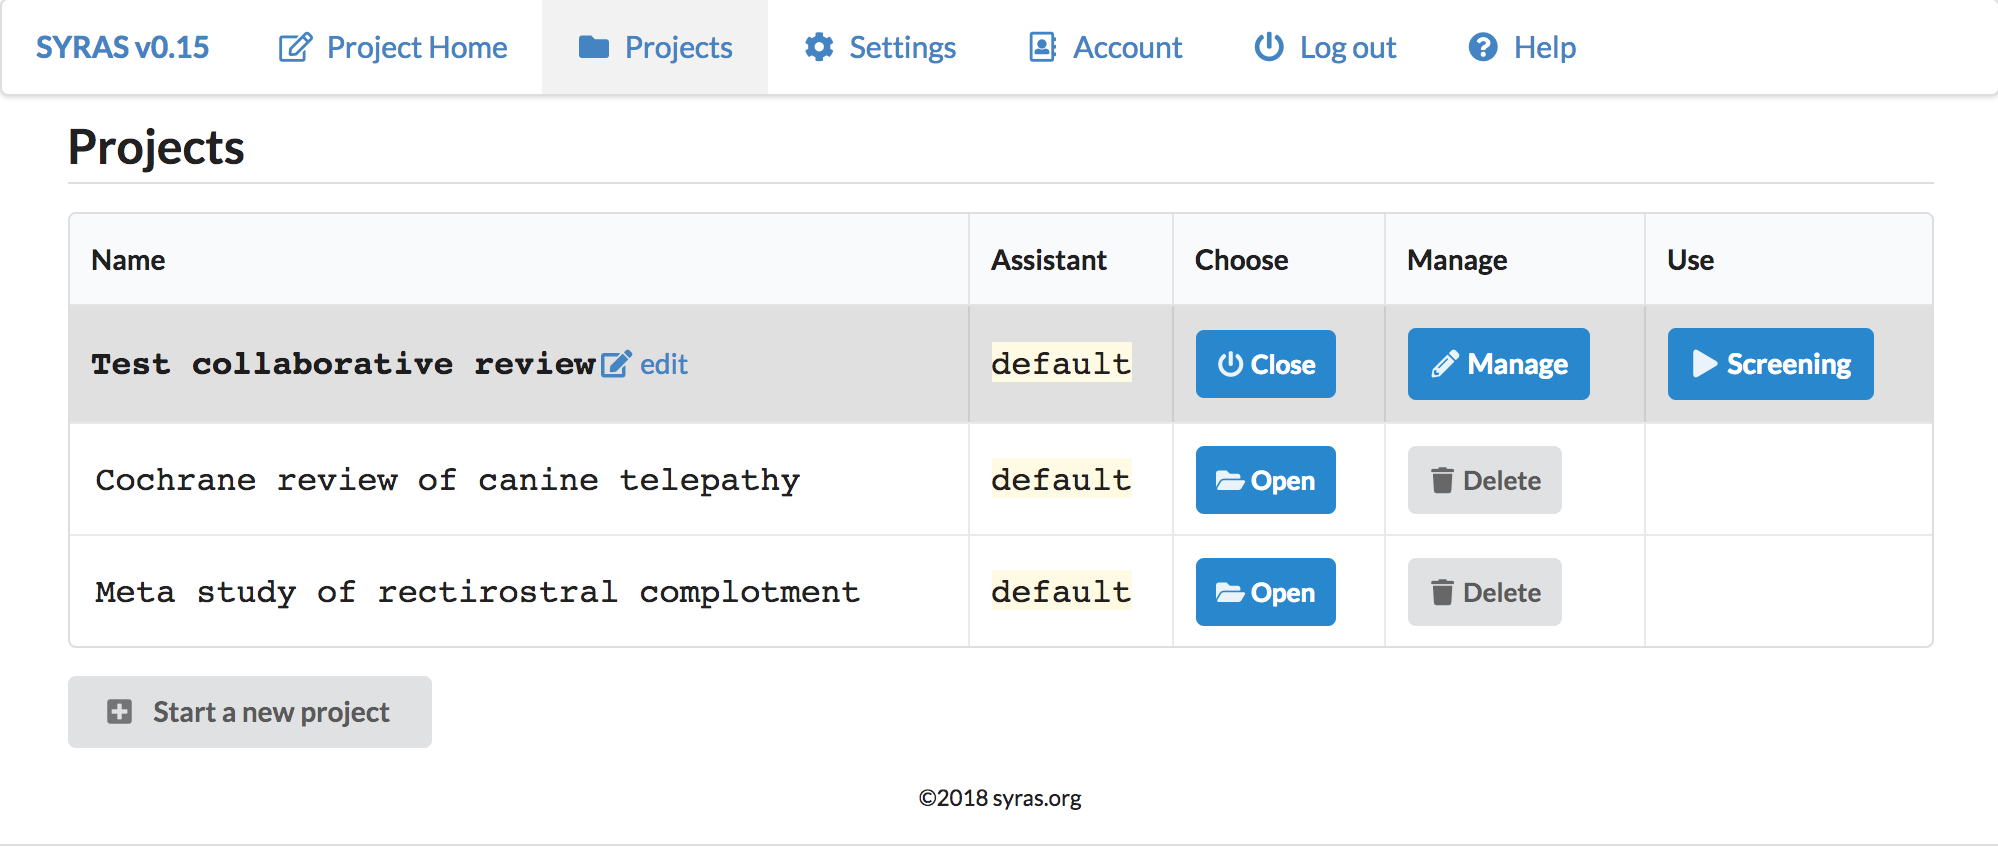
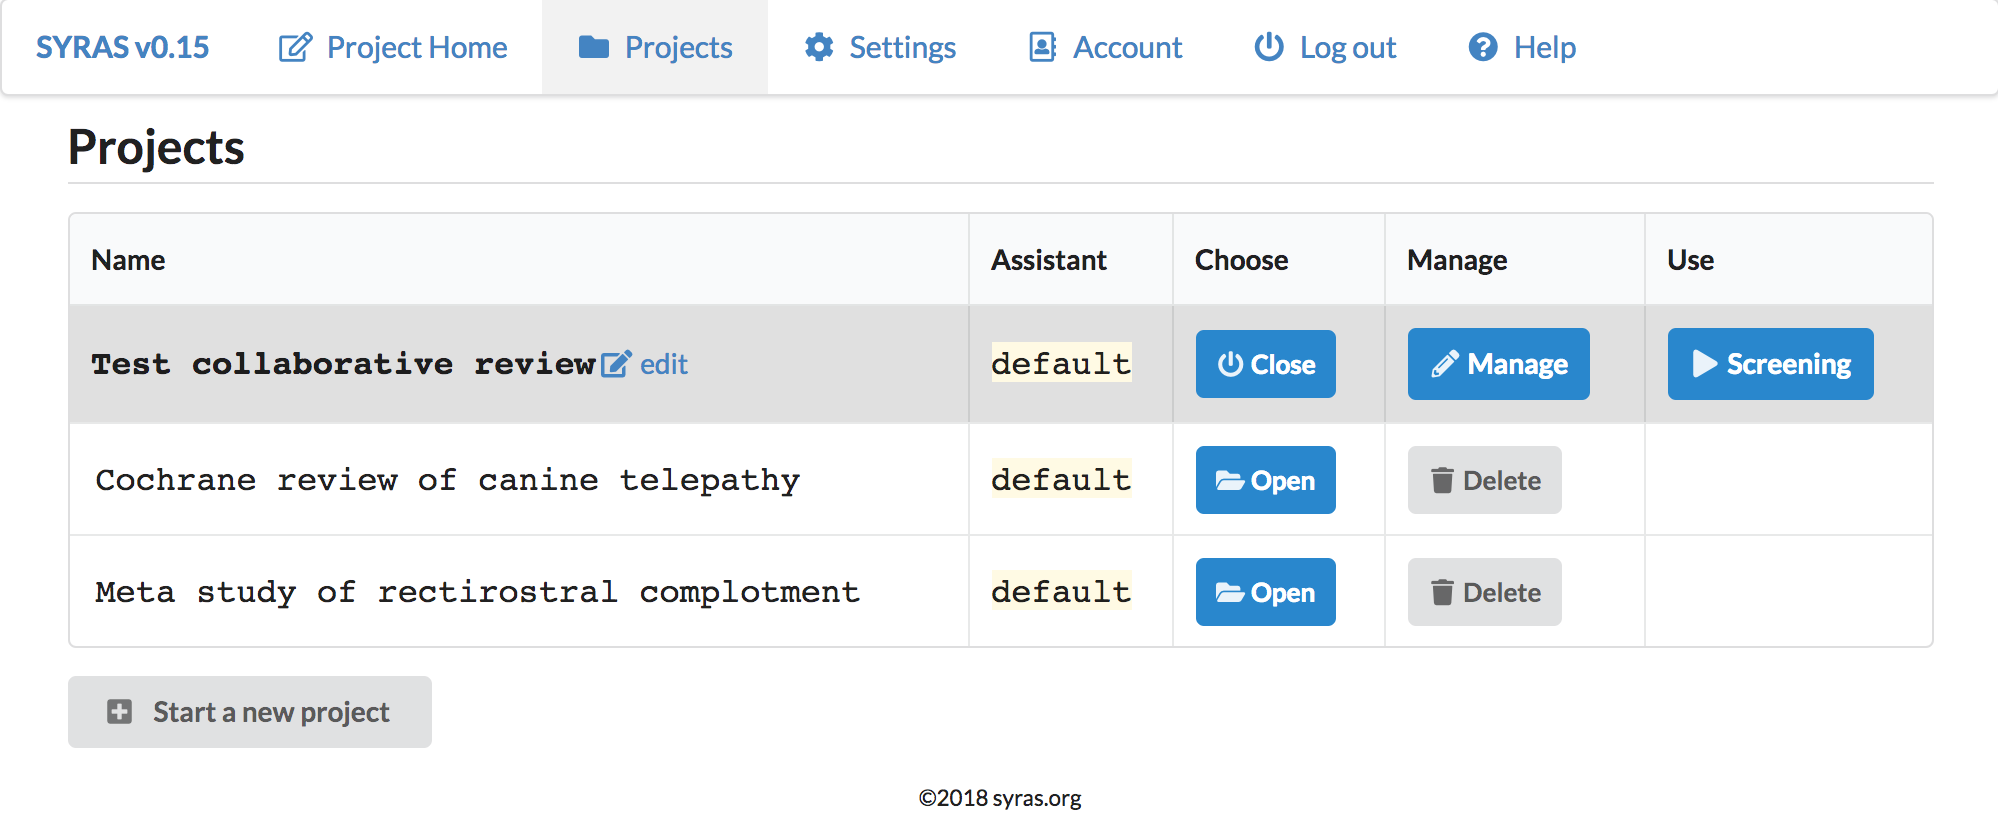
Add dropshadow to all screenshots.

diff --git a/assets/css/style.scss b/assets/css/style.scss
@@ -1,10 +1,10 @@
 ---
 ---
 
-@import "{{ site.theme }}";
-
 // $header-bg-color = 
 $header-bg-color-secondary: "1e7cda";
+
+@import "{{ site.theme }}";
 
 // shrink the header, change the gradient
 .page-header {
@@ -15,5 +15,5 @@ $header-bg-color-secondary: "1e7cda";
 
 // screenshots have a dropshadow to show they're not real
 .screenshot {
-    box-shadow: 9px 9px 10px 5px rgba(163,158,163,0.42);
+    box-shadow: 8px 8px 10px 5px rgba(163,158,163,0.42);
 }

diff --git a/screenshots.md b/screenshots.md
@@ -8,43 +8,43 @@ Here are a selection of screenshots to give you an idea of how SYRAS works.
 
 ![Project Management Screenshot](/assets/images/screenshots/v0.15/project-management.png "Project management page"){: .screenshot}
 
-![Project Home](/assets/images/screenshots/v0.15/project-home.png "")
+![Project Home](/assets/images/screenshots/v0.15/project-home.png ""){: .screenshot}
 
 
 ### Import references
 
-![Reference Import Screenshot](/assets/images/screenshots/v0.15/reference-import.png "Reference Import Options")
+![Reference Import Screenshot](/assets/images/screenshots/v0.15/reference-import.png "Reference Import Options"){: .screenshot}
 
 
 ### Deduplicate references 
 
-![Reference Dedupe Screenshot](/assets/images/screenshots/v0.15/reference-dedupe.png "Reference deduplication process with visual difference highlight")
+![Reference Dedupe Screenshot](/assets/images/screenshots/v0.15/reference-dedupe.png "Reference deduplication process with visual difference highlight"){: .screenshot}
 
 ### Divide reference library into subsets
 
-![Article Sets Screenshot](/assets/images/screenshots/v0.15/article-sets1.png "Article Sets example - randomised split")
+![Article Sets Screenshot](/assets/images/screenshots/v0.15/article-sets1.png "Article Sets example - randomised split"){: .screenshot}
 
-![Article Sets Screenshot](/assets/images/screenshots/v0.15/article-sets2.png "Article Sets - ready for assignment to collaborators")
+![Article Sets Screenshot](/assets/images/screenshots/v0.15/article-sets2.png "Article Sets - ready for assignment to collaborators"){: .screenshot}
 
 
 ### Invite collaborators
 
-![Project Collaborators Screenshot](/assets/images/screenshots/v0.15/project-collaborators.png "Project Collaborators")
+![Project Collaborators Screenshot](/assets/images/screenshots/v0.15/project-collaborators.png "Project Collaborators"){: .screenshot}
 
 
 ### Project settings
 
-![Settings Screenshot](/assets/images/screenshots/v0.15/settings.png "Settings including keyboard shortcuts")
+![Settings Screenshot](/assets/images/screenshots/v0.15/settings.png "Settings including keyboard shortcuts"){: .screenshot}
 
 
 ### Manage your account
 
-![Account Screenshot](/assets/images/screenshots/v0.15/manage-account.png "Account management")
+![Account Screenshot](/assets/images/screenshots/v0.15/manage-account.png "Account management"){: .screenshot}
 
 
 ### Screen articles.
 
-![Article Screening Screenshot](/assets/images/screenshots/v0.15/screening1.png "Article screening in progress")
+![Article Screening Screenshot](/assets/images/screenshots/v0.15/screening1.png "Article screening in progress"){: .screenshot}
 
 
 [< Back to SYRAS homepage](readme.md)
